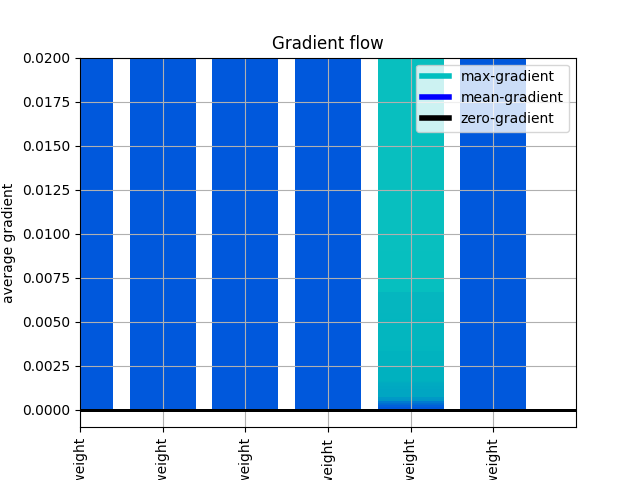
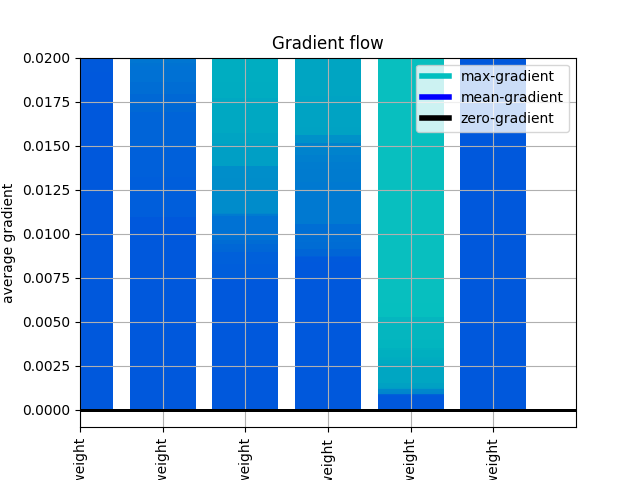
update for 256 images

Changed region(s): [[0.1875, 0.125, 0.5625, 0.5], [0.5938, 0.8125, 0.7188, 0.8438]]

diff --git a/preprocess.py b/preprocess.py
@@ -6,7 +6,7 @@ from src.data.preprocess import ImageProcessor
 def process():
     source_directory = 'data/train_images'
     target_directory = 'data/preprocessed_images'
-    processor = ImageProcessor(source_directory, target_directory, size=(2048, 2048), max_workers=8)
+    processor = ImageProcessor(source_directory, target_directory, size=(256, 256), max_workers=8)
     print(f'Processor initialized with source directory {source_directory} and target directory {target_directory}')
 
     processor.preprocess_and_save()

diff --git a/src/models/CNN.py b/src/models/CNN.py
@@ -15,7 +15,7 @@ class CNN(nn.Module):
         # Can I use a 1x1 convolution?
         self.pool = nn.MaxPool2d(2, 2)
         # self.fc1 = nn.Linear(2032128, 64)
-        self.fc1 = nn.Linear(2032128, 64)
+        self.fc1 = nn.Linear(25088, 64)
         self.fc2 = nn.Linear(64, 6)
 
 
